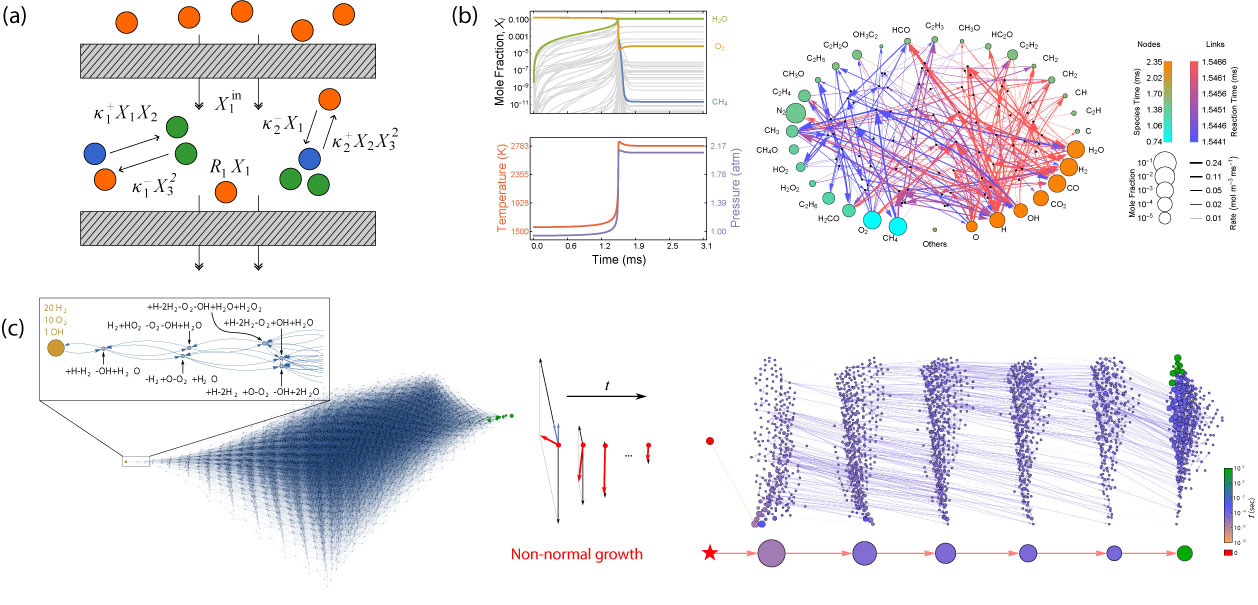
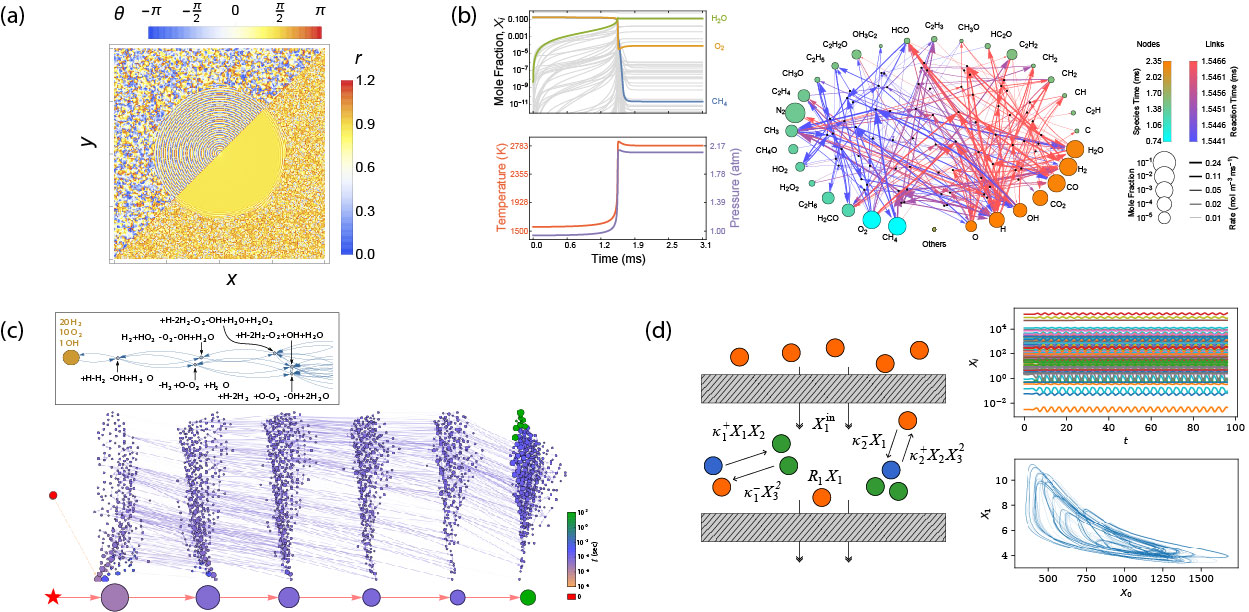
updated gifs

diff --git a/papers.md b/papers.md
@@ -5,20 +5,22 @@ title: Papers
 
 [Google scholar](https://scholar.google.com/citations?hl=en&user=P7hfYakAAAAJ)
 
-[1] Nicolaou and Bramburger, [Complex localization mechanisms in networks of coupled oscillators: two case studies](https://arxiv.org/abs/2309.08547), arXiv preprint arXiv:2309.08547.  
-[2] Nicolaou, Guo, Chen, Brunton, and Kutz, [Data-driven discovery and extrapolation of parameterized pattern-forming dynamics](https://arxiv.org/abs/2301.02673), to appear in Phys. Rev. Research (2023).  
-[3] Nicolaou, Nicholson, Motter, and Green, [Prevalence of multistability and nonstationarity in driven chemical networks](https://doi.org/10.1063/5.0142589), The Journal of Chemical Physics **158**, 225101 (2023).  
-[4] Kaptanoglu, de Silva,  Fasel,  Kaheman, Goldschmidt,  Callaham, Delahunt, Nicolaou,  Champion, Loiseau,  Kutz, and Brunton, 	[PySINDy: A comprehensive Python package for robust sparse system identification](https://doi.org/10.21105/joss.03994), J. Open Source Softw. **7**, 3994 (2022).  
-[5] Nicolaou, Case, van der Wee, Driscoll, and  Motter, [Heterogeneity-stabilized homogeneous states in driven media](https://doi.org/10.1038/s41467-021-24459-0), Nat. Comm. **12**, 4486 (2021).  
-[6] Nicolaou and Motter. [Anharmonic classical time crystals: A coresonance pattern formation mechanism](https://doi.org/10.1103/PhysRevResearch.3.023106), Phys. Rev. Research **3**, 023106 (2021).  
-[7] Nicolaou, Sebek, Kiss, and Motter, [Coherent dynamics enhanced by uncorrelated noise](https://doi.org/10.1103/PhysRevLett.125.094101), Phys. Rev. Lett. **125**, 094101 (2020).  
-[8] Nicolaou and Motter. [Missing links as a source of seemingly variable constants in complex reaction networks](https://doi.org/10.1103/PhysRevResearch.2.043135), Phys. Rev. Research **2**, 043135 (2020).  
-[9] Nicolaou, Nishikawa, Nicholson, Green, and Motter, [Non-normality and non-monotonic dynamics in complex reaction networks](https://doi.org/10.1103/PhysRevResearch.2.043059), Phys. Rev. Research **2**, 043059 (2020).  
-[10] Zhang, Nicolaou, Hart, Roy, and Motter, [Critical switching in globally attractive chimeras](https://doi.org/10.1103/PhysRevX.10.011044), Phys. Rev. X **10**, 011044 (2020).  
-[11] Nicolaou, Eroglu, and Motter, [Multifaceted dynamics of Janus oscillator networks](https://doi.org/10.1103/PhysRevX.9.011017), Phys. Rev. X **9**, 011017 (2019).  
-[12] Nicolaou, Xu, and  Motter, [Minimal scattering entanglement in one-dimensional trapped gases](https://doi.org/10.1103/PhysRevA.99.012316), Phys. Rev. A **99**, 012316 (2019).  
-[13] Nicolaou, [Stability and instability of axisymmetric droplets in thermocapillary-driven thin films](https://doi.org/10.1088/1361-6544/aa999c), Nonlinearity **31**, 1009 (2018).  
-[14] Nicolaou, Riecke, and  Motter, [Chimera states in continuous media: Existence and distinctness](https://doi.org/10.1103/PhysRevLett.119.244101), Phys. Rev. Lett. **119**, 244101 (2017).  
-[15] Nicolaou, [Symmetry and variational analyses of fluid interface equations in the thin film limit](https://www.proquest.com/docview/2129710996?pq-origsite=gscholar&fromopenview=true). California Institute of Technology ProQuest Dissertations Publishing, 2017.
-[16] Nicolaou and Motter, [Longitudinal inverted compressibility in super-strained metamaterials](https://doi.org/10.1007/s10955-013-0742-8), J. Stat. Phys. **151**, 1162 (2013).  
-[17] Nicolaou and Motter, [Mechanical metamaterials with negative compressibility transitions](https://doi.org/10.1038/nmat3331), Nat. Mater.  **11**, 608 (2012).  
+[1] Nicolaou and Bramburger, [Complex localization mechanisms in networks of coupled oscillators: two case studies](https://arxiv.org/abs/2309.08547), arXiv preprint arXiv:2309.08547 (2023).   
+[2] Nicolaou, When Patterns Come to Life, Comment on ''Unified representation of Life’s basic properties by a 3-species Stochastic Cubic Autocatalytic Reaction-Diffusion system of equations'', to appear in Phys. Life Rev. (2023).  
+[3] Nicolaou, Guo, Chen, Brunton, and Kutz, [Data-driven discovery and extrapolation of parameterized pattern-forming dynamics](https://arxiv.org/abs/2301.02673), to appear in Phys. Rev. Research (2023).  
+[4] Nicolaou, Nicholson, Motter, and Green, [Prevalence of multistability and nonstationarity in driven chemical networks](https://doi.org/10.1063/5.0142589), The Journal of Chemical Physics **158**, 225101 (2023).  
+[5] Kaptanoglu, Zhang, Nicolaou, Fasel, and Brunton, [Benchmarking sparse system identification with low-dimensional chaos](https://doi.org/10.1007/s11071-023-08525-4) Nonlinear Dynamics, 1-22 (2023).  
+[6] Kaptanoglu, de Silva,  Fasel,  Kaheman, Goldschmidt,  Callaham, Delahunt, Nicolaou,  Champion, Loiseau,  Kutz, and Brunton, 	[PySINDy: A comprehensive Python package for robust sparse system identification](https://doi.org/10.21105/joss.03994), J. Open Source Softw. **7**, 3994 (2022).  
+[7] Nicolaou, Case, van der Wee, Driscoll, and  Motter, [Heterogeneity-stabilized homogeneous states in driven media](https://doi.org/10.1038/s41467-021-24459-0), Nat. Comm. **12**, 4486 (2021).  
+[8] Nicolaou and Motter. [Anharmonic classical time crystals: A coresonance pattern formation mechanism](https://doi.org/10.1103/PhysRevResearch.3.023106), Phys. Rev. Research **3**, 023106 (2021).  
+[9] Nicolaou, Sebek, Kiss, and Motter, [Coherent dynamics enhanced by uncorrelated noise](https://doi.org/10.1103/PhysRevLett.125.094101), Phys. Rev. Lett. **125**, 094101 (2020).  
+[10] Nicolaou and Motter. [Missing links as a source of seemingly variable constants in complex reaction networks](https://doi.org/10.1103/PhysRevResearch.2.043135), Phys. Rev. Research **2**, 043135 (2020).  
+[11] Nicolaou, Nishikawa, Nicholson, Green, and Motter, [Non-normality and non-monotonic dynamics in complex reaction networks](https://doi.org/10.1103/PhysRevResearch.2.043059), Phys. Rev. Research **2**, 043059 (2020).  
+[12] Zhang, Nicolaou, Hart, Roy, and Motter, [Critical switching in globally attractive chimeras](https://doi.org/10.1103/PhysRevX.10.011044), Phys. Rev. X **10**, 011044 (2020).  
+[13] Nicolaou, Eroglu, and Motter, [Multifaceted dynamics of Janus oscillator networks](https://doi.org/10.1103/PhysRevX.9.011017), Phys. Rev. X **9**, 011017 (2019).  
+[14] Nicolaou, Xu, and  Motter, [Minimal scattering entanglement in one-dimensional trapped gases](https://doi.org/10.1103/PhysRevA.99.012316), Phys. Rev. A **99**, 012316 (2019).  
+[15] Nicolaou, [Stability and instability of axisymmetric droplets in thermocapillary-driven thin films](https://doi.org/10.1088/1361-6544/aa999c), Nonlinearity **31**, 1009 (2018).  
+[16] Nicolaou, Riecke, and  Motter, [Chimera states in continuous media: Existence and distinctness](https://doi.org/10.1103/PhysRevLett.119.244101), Phys. Rev. Lett. **119**, 244101 (2017).  
+[17] Nicolaou, [Symmetry and variational analyses of fluid interface equations in the thin film limit](https://www.proquest.com/docview/2129710996?pq-origsite=gscholar&fromopenview=true). California Institute of Technology ProQuest Dissertations Publishing, 2017.
+[18] Nicolaou and Motter, [Longitudinal inverted compressibility in super-strained metamaterials](https://doi.org/10.1007/s10955-013-0742-8), J. Stat. Phys. **151**, 1162 (2013).  
+[19] Nicolaou and Motter, [Mechanical metamaterials with negative compressibility transitions](https://doi.org/10.1038/nmat3331), Nat. Mater.  **11**, 608 (2012).  

diff --git a/chemistry.md b/chemistry.md
@@ -2,6 +2,16 @@
 layout: page
 title: Complex Chemical Dynamics
 ---
+<pre>
+<div class="container-fluid">
+  <div class="row">
+    <img src="/assets/gallery/figures/combustion.gif" height="200"  />
+    <div class="col"></div>
+    <img src="/assets/gallery/unpublished/oregonator.gif" height="200"  />
+  </div>
+</div>
+</pre>
+
 Chemical reaction networks exhibit complex and multi-scale dynamics in critical engineering and scientific systems. Application areas include combustion and related industrial energy systems, atmospheric chemistry of pollution and climate change models, and metabolic networks for biophysical cellular dynamics. These reaction networks are characterized by chemical species, reactions, and reaction rates, and are coupled to thermodynamic and transport processes. Researchers have focused on accurate models and measurements for individual chemical reaction rates for decades, but when complex models are built from these components, insurmountable challenges have arisen. I am interested in developing more principled models for chemical reaction networks, which account for physical and chemical processes while accounting for the complex collective behavior and sensitive and incomplete network information, leveraging machine learning and reduced-order approaches.
 
 <figure>
@@ -9,11 +19,13 @@ Chemical reaction networks exhibit complex and multi-scale dynamics in critical 
   src="https://cdnjs.cloudflare.com/ajax/libs/mathjax/2.7.5/MathJax.js?config=TeX-MML-AM_CHTML">
 </script>
 <img src="/assets/img/chemistry.jpg" width=1024 />
-<figcaption align="center">(a) Driven chemical reaction network characterized by species concentrations <script type="math/tex; mode=inline"> X_i </script> and rate constants <script type="math/tex; mode=inline"> \kappa_j^\pm </script> [3]. (b) Ignition in a methane combustion network, exhibiting sensitivity to missing reactions links [8]. (c) Network representation of the high-dimensional linear master equation dynamics (left) and a dimension reduced direct acyclic network (right) for oxygen combustion network, exhibiting non-normal growth dynamics [9].
+<figcaption align="center">(a) Spiral patterns (frozen vortex chimeras) in the complex Ginzburg-Landau model for BZ chemical reaction dynamics [16]. (b) Ignition in a methane combustion network, exhibiting sensitivity to missing reactions links [8]. (c) Reduced network representation of the high-dimensional linear master equation dynamics for oxygen combustion network, exhibiting non-normal growth dynamics [9]. (d) Driven chemical reaction network characterized by species concentrations <script type="math/tex; mode=inline"> X_i </script> and rate constants <script type="math/tex; mode=inline"> \kappa_j^\pm </script> [3].
 </figcaption>
 </figure>
 
 ## Related works
+[2] Nicolaou, When Patterns Come to Life, Comment on ''Unified representation of Life’s basic properties by a 3-species Stochastic Cubic Autocatalytic Reaction-Diffusion system of equations'', to appear in Phys. Life Rev. (2023).  
 [3] Nicolaou, Nicholson, Motter, and Green, [Prevalence of multistability and nonstationarity in driven chemical networks](https://doi.org/10.1063/5.0142589), The Journal of Chemical Physics **158**, 225101 (2023).  
 [8] Nicolaou and Motter. [Missing links as a source of seemingly variable constants in complex reaction networks](https://doi.org/10.1103/PhysRevResearch.2.043135), Phys. Rev. Research **2**, 043135 (2020).  
 [9] Nicolaou, Nishikawa, Nicholson, Green, and Motter, [Non-normality and non-monotonic dynamics in complex reaction networks](https://doi.org/10.1103/PhysRevResearch.2.043059), Phys. Rev. Research **2**, 043059 (2020).  
+[16] Nicolaou, Riecke, and  Motter, [Chimera states in continuous media: Existence and distinctness](https://doi.org/10.1103/PhysRevLett.119.244101), Phys. Rev. Lett. **119**, 244101 (2017).  

diff --git a/synchronization.md b/synchronization.md
@@ -2,6 +2,18 @@
 layout: page
 title: Patterns of Synchrony
 ---
+<pre>
+<div class="container-fluid">
+  <div class="row">
+    <img src="/assets/gallery/figures/spiral.gif" height="200"  />
+    <div class="col"></div>
+    <img src="/assets/gallery/figures/switch.gif" height="200"  />
+    <div class="col"></div>
+    <img src="/assets/gallery/figures/torus.gif" height="200"  />
+  </div>
+</div>
+</pre>
+
 Synchronization, in which the coupled oscillators begin to evolve in a highly correlated manner, is one of the best characterized examples of complex and emergent phenomena in nonlinear dynamics. Pioneers like Kuramoto and Winfree sought to apply methods from statistical physics to the oscillatory dynamics appearing in biological and chemical systems.  More recently, the discovery of chimera states, consisting of coexisting domains of coherence and incoherence in identical and identically-coupled oscillators, has led to interesting studies in symmetry breaking bifurcations. The impact of coupling network structure and disorder has also highlighted the diverse range of complex synchronization phenomena emerging in real-world systems.
 
 <figure>
@@ -11,6 +23,7 @@ Synchronization, in which the coupled oscillators begin to evolve in a highly co
 </figure>
 
 ## Related works
+[1] Nicolaou and Bramburger, [Complex localization mechanisms in networks of coupled oscillators: two case studies](https://arxiv.org/abs/2309.08547), arXiv preprint arXiv:2309.08547.   
 [7] Nicolaou, Sebek, Kiss, and Motter, [Coherent dynamics enhanced by uncorrelated noise](https://doi.org/10.1103/PhysRevLett.125.094101), Phys. Rev. Lett. **125**, 094101 (2020).  
 [10] Zhang, Nicolaou, Hart, Roy, and Motter, [Critical switching in globally attractive chimeras](https://doi.org/10.1103/PhysRevX.10.011044), Phys. Rev. X **10**, 011044 (2020).  
 [11] Nicolaou, Eroglu, and Motter, [Multifaceted dynamics of Janus oscillator networks](https://doi.org/10.1103/PhysRevX.9.011017), Phys. Rev. X **9**, 011017 (2019).  

diff --git a/numerics.md b/numerics.md
@@ -2,6 +2,17 @@
 layout: page
 title: Numerics and Machine Learning
 ---
+<pre>
+<div class="container-fluid">
+  <div class="row">
+  <div class="col"></div>
+    <img src="/assets/gallery/unpublished/solitons.gif" height="200"  />
+    <div class="col"></div>
+
+  </div>
+</div>
+</pre>
+
 Novel machine learning approaches are revolutionizing scientific research, but this revolution did not emerge out of the blue. Decades of methodological developments and applications in scientific computing have culminated in a paradigmatic shift in the way science will be conducted in the twenty first century. I am interested in modernizing classical scientific computing approaches, including numerical integration, numerical continuation, and bifurcation analyses, utilizing modern GPU hardware to accelerate analysis of complex dynamical states, including limit cycles, invariant tori, and chaotic attractors. As an active developer for the open source PySINDy package, I am also investigating applications and methodological developments of machine learning system identification algorithms, specifically for the sparse identification of nonlinear dynamics (SINDy) algorithm. Coupled with novel neural networks in the form of autoencoders, the SINDy approach promises to advance classical applied mathematics approaches by enabling coordinate discovery with interpretable dynamics. I aim to demonstrate this approach on classical systems to advance discovery in pattern formation.
 <figure>
 <img src="/assets/img/numerics.jpg" width=1024 />

diff --git a/materials.md b/materials.md
@@ -2,6 +2,18 @@
 layout: page
 title: Material and Fluid Design
 ---
+<pre>
+<div class="container">
+  <div class="row">
+    <img src="/assets/gallery/figures/meta.gif" height="150"  />
+    <div class="col"></div>
+    <img src="/assets/gallery/unpublished/cylinder4_square.gif" height="125"  />
+    <div class="col"></div>
+    <img src="/assets/gallery/unpublished/9animation.gif" height="125"  />
+  </div>
+</div>
+</pre>
+
 Material and fluid systems, composed of microscopic and mesoscopic coupled material elements, can exhibit diverse and complex macroscopic behaviors. The theory of pattern formation, developed in the late twentieth century, characterizes universal mechanisms for the development of patterns seen in diverse natural and man-made systems, ranging from morphological development in biology and waves in driven fluids to ecological patterns of vegetation and planetary bands. Key to this approach is the characterization of instabilities and symmetry breaking bifurcations, which enables the development of universal model equations and universality classes. I aim to leverage understanding in pattern formation to design of novel metamaterials, fluid systems, and self-assembled computational and sensing technologies.
 
 <figure>

diff --git a/index.md b/index.md
@@ -8,16 +8,16 @@ Welcome to my website!
 
 ---
 
-I study a variety of classical pattern-forming systems, scientific computing and machine learning approaches, and complex phenomena. You can see more details [about me](aboutme.md).
+I study a variety of classical pattern-forming systems, scientific computing and machine learning approaches, and complex phenomena. You can see more details [about me](aboutme).
 
 ---
 
 My research themes include:
-- [Material and Fluid Design](materials.md)
-- [Patterns of Synchrony](synchronization.md)
-- [Complex Chemical Dynamics](chemistry.md)
-- [Numerics and Machine Learning](numerics.md)
+- [Material and Fluid Design](materials)
+- [Patterns of Synchrony](synchronization)
+- [Complex Chemical Dynamics](chemistry)
+- [Numerics and Machine Learning](numerics)
 
 ---
 
-Check out my gallery for some pretty [animated figures](gallery.md) and [animated paper summaries](gallery2.md).
+Check out my [videos](gallery2) for some pretty animated paper summaries.
